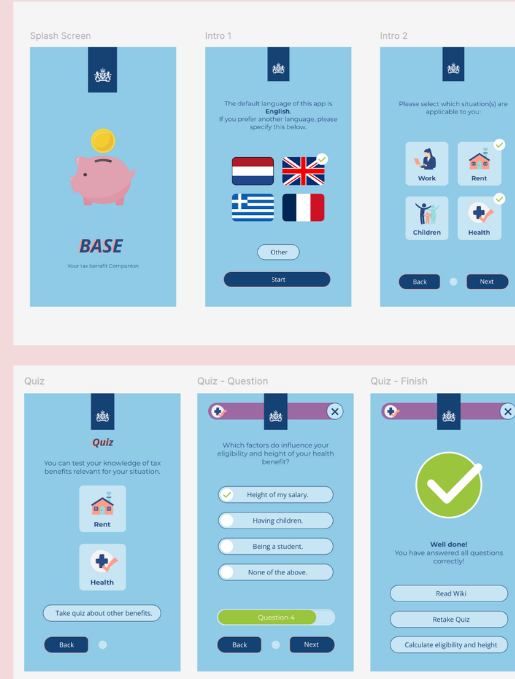
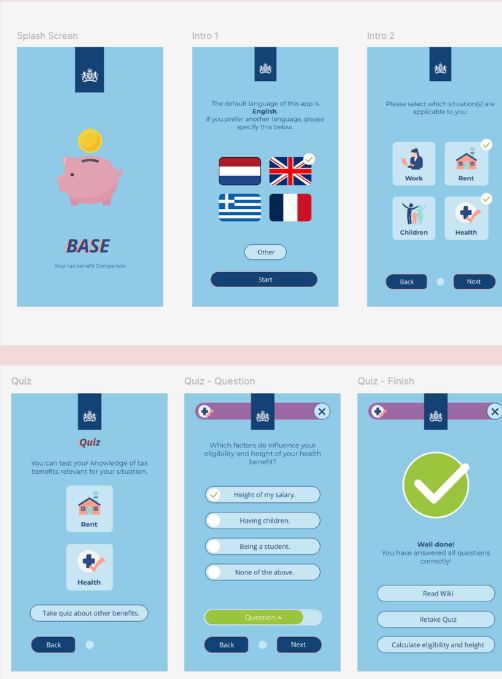
Revert BASE border, re-crop its screenshot for even spacing
Kept the original lighter border as requested. The actual issue was
the source image itself: the phone-screen grid had a 13px margin on
the left but was flush against the right edge. Cropped off that left
margin so both sides are now symmetric.

diff --git a/src/pages/Work.jsx b/src/pages/Work.jsx
@@ -67,9 +67,7 @@ export default function Work() {
                   whileInView={{ opacity: 1, scale: 1 }}
                   viewport={{ once: true, amount: 0.3 }}
                   transition={{ duration: 0.55, ease: 'easeOut', delay: 0.1 }}
-                  className={`overflow-hidden rounded-2xl bg-cream shadow-xl ${
-                    p.slug === 'base-app' ? 'border-4 border-ink/40' : 'border-4 border-ink/10'
-                  }`}
+                  className="overflow-hidden rounded-2xl border-4 border-ink/10 bg-cream shadow-xl"
                 >
                   {p.image && (
                     <img src={p.image} alt={`Werk voor ${p.title}`} className="h-full w-full object-cover" />
